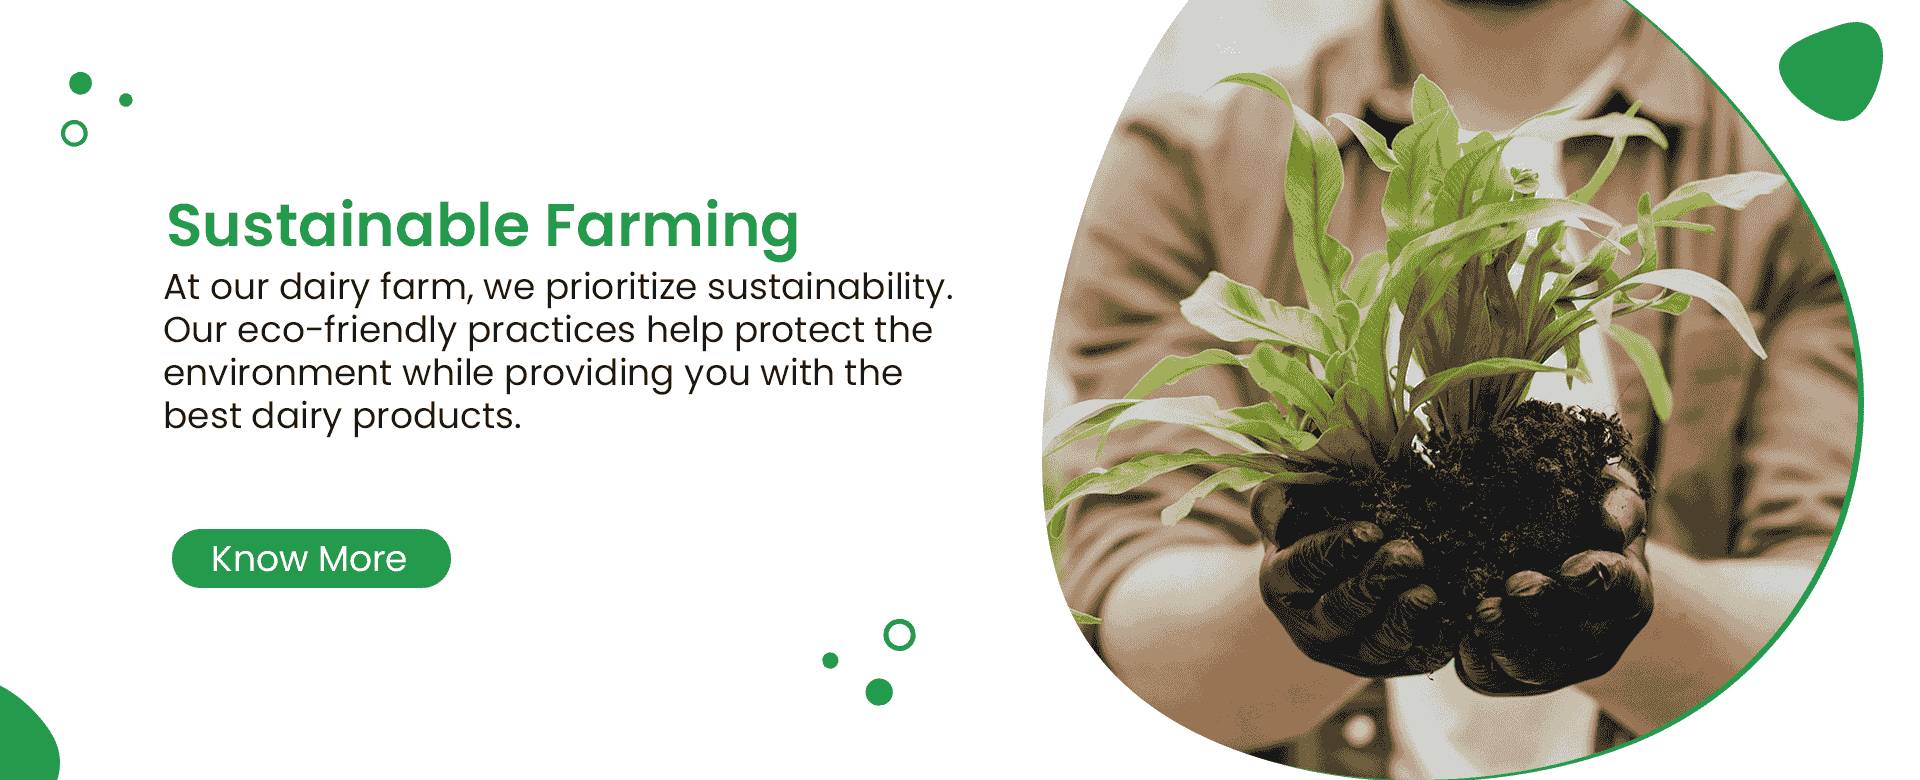
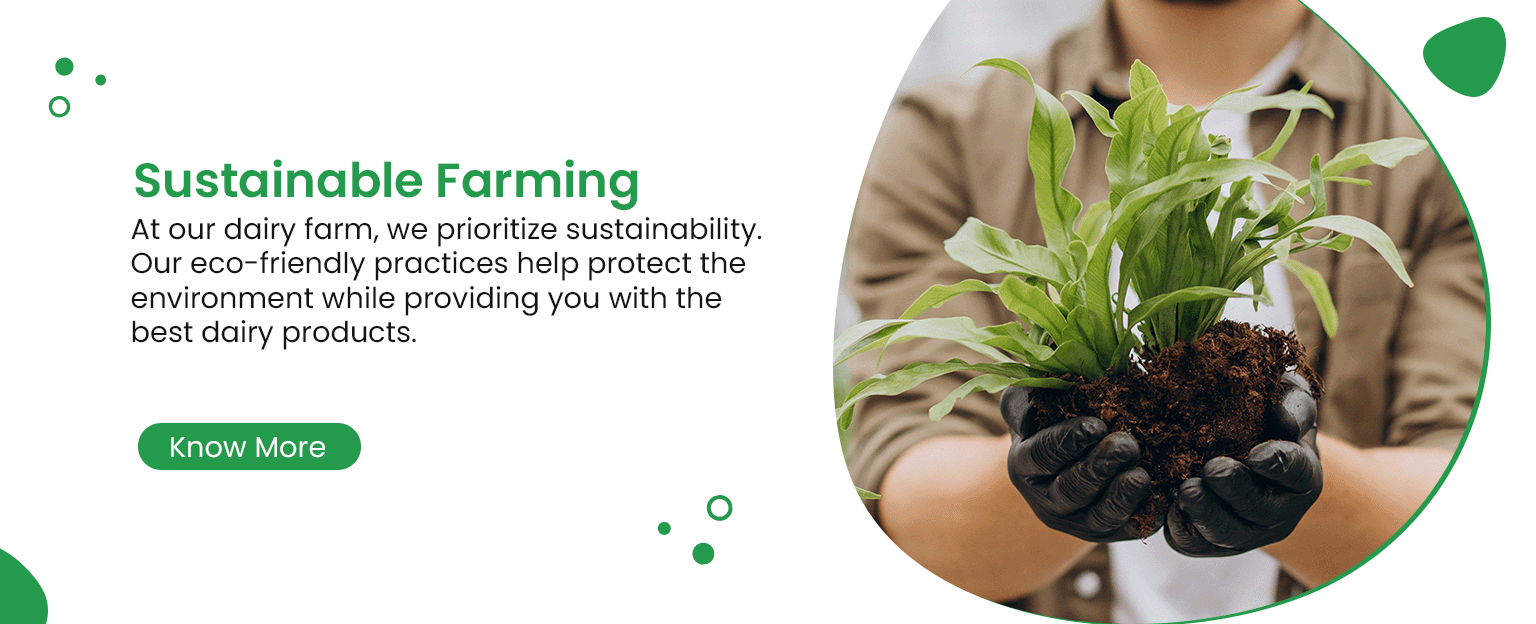
ashwani's described changes

diff --git a/src/Components/Navbar/Navbar.jsx b/src/Components/Navbar/Navbar.jsx
@@ -51,7 +51,7 @@ const Navbar = ({ headerHeight }) => {
 
           <ul className="flex gap-5">
             <li
-              className={`cursor-pointer hover:scale-110 transition duration 700 font-bold hover:text-green-700 ${
+              className={`cursor-pointer hover:scale-110 transition duration 700 hover:text-green-700 ${
                 active === "home" ? "text-green-700 scale-110" : ""
               }`}
             >
@@ -59,7 +59,7 @@ const Navbar = ({ headerHeight }) => {
             </li>
 
             <li
-              className={`cursor-pointer hover:scale-110 transition duration 700 font-bold hover:text-green-700 ${
+              className={`cursor-pointer hover:scale-110 transition duration 700 hover:text-green-700 ${
                 active === "products" ? "text-green-700 scale-110" : ""
               }`}
             >
@@ -67,7 +67,7 @@ const Navbar = ({ headerHeight }) => {
             </li>
 
             <li
-              className={`cursor-pointer hover:scale-110 transition duration 700 font-bold hover:text-green-700 ${
+              className={`cursor-pointer hover:scale-110 transition duration 700 hover:text-green-700 ${
                 active === "aboutUs" ? "text-green-700 scale-110" : ""
               }`}
             >
@@ -75,7 +75,7 @@ const Navbar = ({ headerHeight }) => {
             </li>
 
             <li
-              className={`cursor-pointer hover:scale-110 transition duration 700 font-bold hover:text-green-700 ${
+              className={`cursor-pointer hover:scale-110 transition duration 700 hover:text-green-700 ${
                 active === "contactUs" ? "text-green-700 scale-110" : ""
               }`}
             >
@@ -83,7 +83,7 @@ const Navbar = ({ headerHeight }) => {
             </li>
 
             <li
-              className={`cursor-pointer hover:scale-110 transition duration 700 font-bold hover:text-green-700 ${
+              className={`cursor-pointer hover:scale-110 transition duration 700 hover:text-green-700 ${
                 active === "blogs" ? "text-green-700 scale-110" : ""
               }`}
             >

diff --git a/src/Components/showcaseSwiper/ShowcaseSwiper.jsx b/src/Components/showcaseSwiper/ShowcaseSwiper.jsx
@@ -47,7 +47,7 @@ const ShowcaseSwiper = () => {
               alt="Cow Portrait looking somewhere else"
               className="w-full h-full cursor-grab md:hidden brightness-100"
             />
-            <div className="absolute inset-0 shadow-[inset_0_0_80px_40px_rgba(0,0,0,0.7)] pointer-events-none"></div>
+            {/* <div className="absolute inset-0 shadow-[inset_0_0_80px_40px_rgba(0,0,0,0.7)] pointer-events-none"></div> */}
           </div>
           {/* <div className="absolute z-50 top-0 flex flex-col gap-6 h-full w-full justify-end md:justify-center pb-12 md:pb-0">
             <div className="mx-auto max-w-[1400px] lg:w-3/4 md:w-11/12 px-4 md:px-0">
@@ -85,7 +85,7 @@ const ShowcaseSwiper = () => {
               className="w-full h-full cursor-grab md:hidden brightness-100"
               loading="lazy"
             />
-            <div className="absolute inset-0 shadow-[inset_0_0_80px_40px_rgba(0,0,0,0.7)] pointer-events-none"></div>
+            {/* <div className="absolute inset-0 shadow-[inset_0_0_80px_40px_rgba(0,0,0,0.7)] pointer-events-none"></div> */}
           </div>
           {/* <div className="absolute z-50 top-0 flex flex-col gap-6 h-full w-full justify-end md:justify-center pb-12 md:pb-0">
             <div className="mx-auto max-w-[1400px] lg:w-3/4 md:w-11/12 px-4 md:px-0">

diff --git a/src/Components/Body/Body.jsx b/src/Components/Body/Body.jsx
@@ -89,11 +89,11 @@ const Body = ({ totalPaddingToGive, setReturnPage }) => {
               </p>
             </div>
 
-            <div className="md:w-1/2 md:h-[400px] flex justify-center md:flex-row-reverse order-1 md:order-2 spacing-6 rounded-xl shadow-2xl shadow-black tab:w-full aspect-[16/9]">
+            <div className="md:w-1/2 md:h-[400px] flex justify-center md:flex-row-reverse order-1 md:order-2 spacing-6 rounded-4xl shadow-2xl shadow-black tab:w-full aspect-[16/9]">
               <img
                 src={gfoFarm}
                 alt="cow Image"
-                className="w-full rounded-xl filter brightness-75 h-auto"
+                className="w-full rounded43xl filter brightness-75 h-auto"
                 id="sinceImg"
                 loading="lazy"
               />
